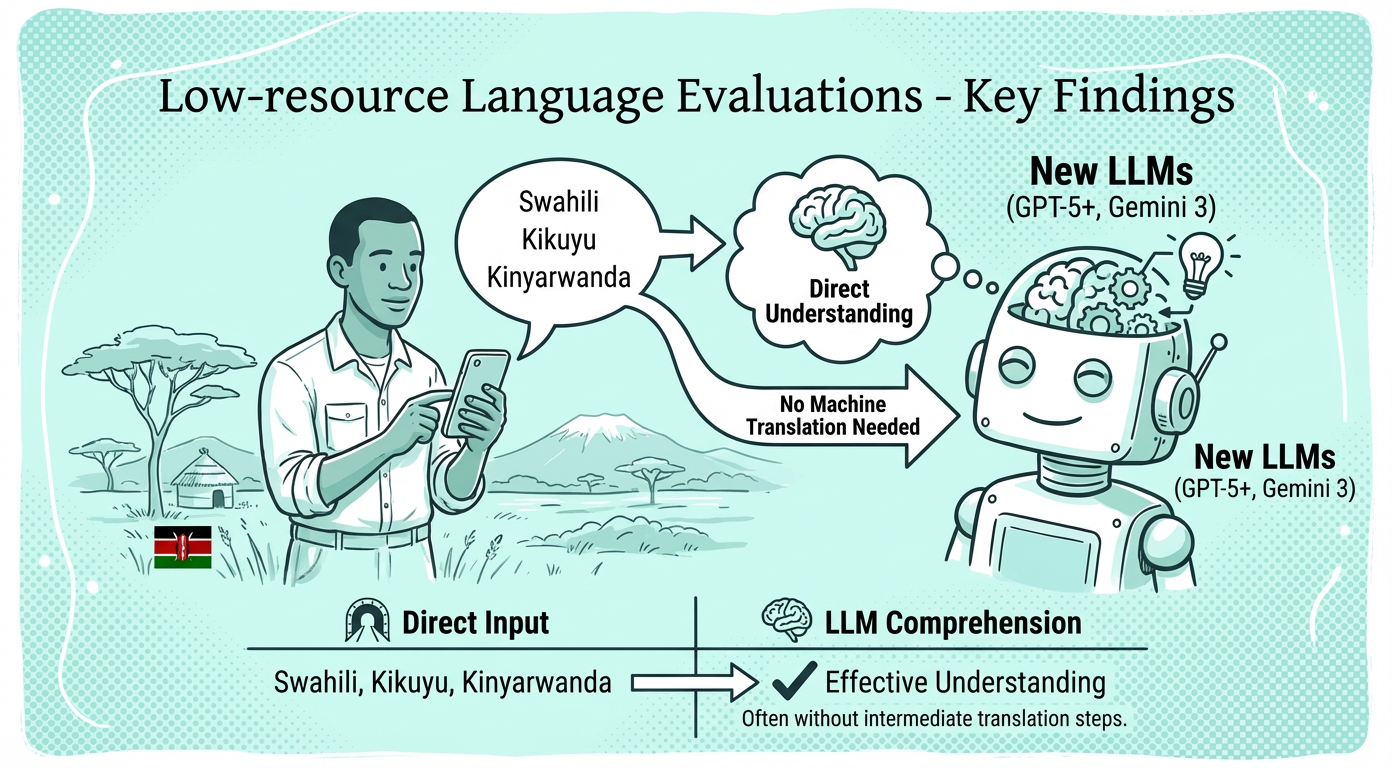
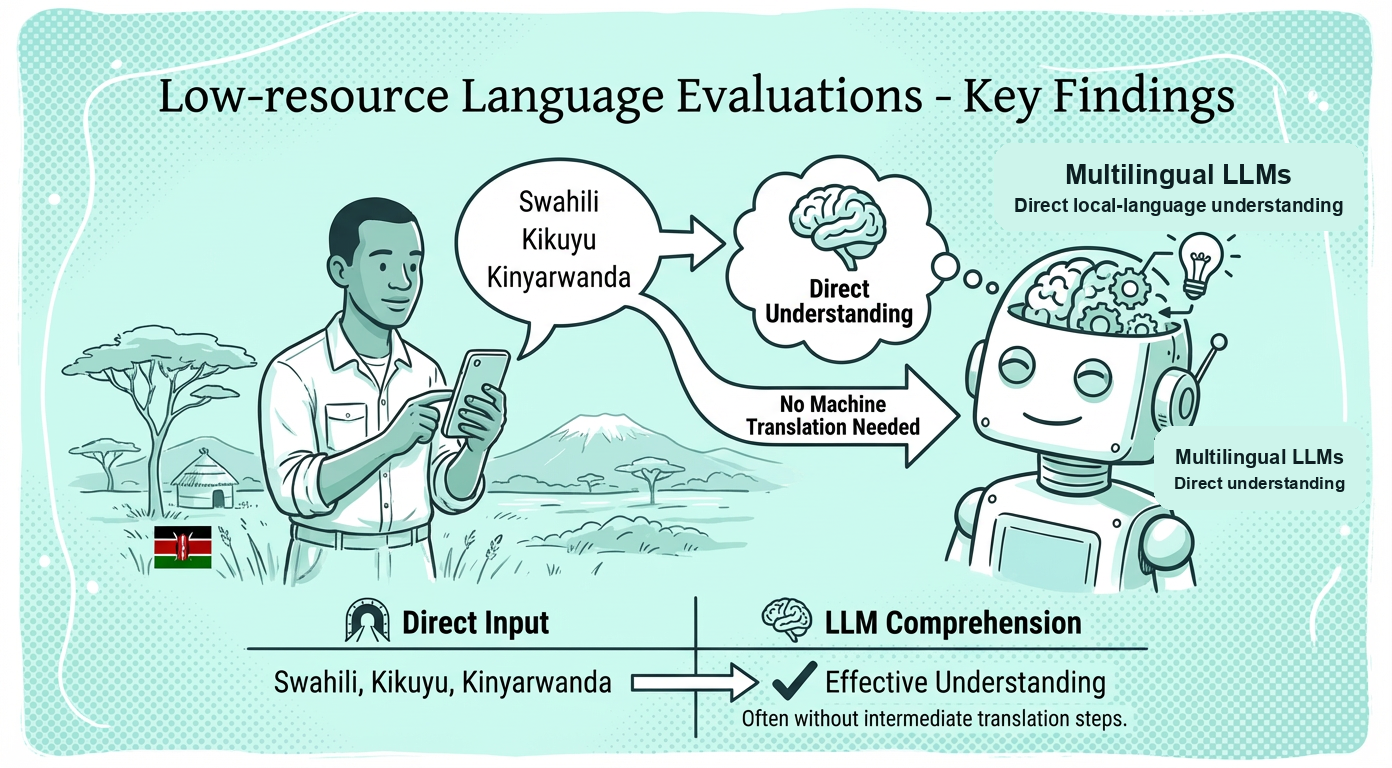
Refresh multilingual evaluation model references

Changed region(s): [[0.7105, 0.1875, 0.9885, 0.3125], [0.8032, 0.5312, 0.9885, 0.6562]]

diff --git a/multilingual-ai-evaluations/index.html b/multilingual-ai-evaluations/index.html
@@ -871,12 +871,12 @@
         <div class="wrap">
           <h2 class="sec-title">Health Related AI Evaluations</h2>
           <p class="sec-sub">
-            In April 2026 we evaluated private models (Gemini 3.1, OpenAI 5.4,
-            Intron) and open-source / sovereign-deployable models (Omnilingual,
-            Gemma 4 26B, Kimi 2.5) on health audio questions in Pakistani and
-            Nigerian languages. Gemini 3.1 Pro paired with Intron or Meta’s
-            Omnilingual ASR was most accurate — a good fit for WhatsApp and
-            async messaging, likely too slow for live voice services.
+            These dated benchmark snapshots compare the specific speech and
+            language models available when each evaluation was run. Across
+            health audio questions in Pakistani and Nigerian languages, the
+            strongest model chain varied by language: higher-accuracy systems
+            often suited WhatsApp and asynchronous messaging, while faster
+            chains were better candidates for live voice services.
           </p>
 
           <h3 class="sec-title">Pakistani and Nigerian Languages</h3>
@@ -1113,7 +1113,7 @@
                   </a>
                   <figcaption>
                     <h4>The ground reality</h4>
-                    <p>Unfortunately, capturing this diversity of language is hard for tech companies attempting to make speech recognition and translation models. This poor performance then implies that incredible tools like GPT4 and Gemini - which are primarily trained on English - don’t work particularly well for speakers of low-resource languages.</p>
+                    <p>Capturing the diversity of local-language speech is difficult for teams building speech-recognition and translation models. Systems trained predominantly on high-resource languages can therefore perform poorly for speakers of digitally underrepresented languages.</p>
                   </figcaption>
                 </figure>
                 <figure class="theory-card">
@@ -1139,9 +1139,9 @@
                     <img src="images/theory-of-change/possibilities-2025.png" alt="Illustration of new language AI possibilities in 2025" width="1392" height="768" loading="lazy" />
                   </a>
                   <figcaption>
-                    <h4>The possibilities in 2025</h4>
+                    <h4>A rapidly improving model ecosystem</h4>
                     <p>Local NLP and AI teams such as Jacaranda Health and MBaza released better performing fine-tuned African speech recognition models. Additionally, Meta released Omnilingual ASR with support for 1600+ languages.</p>
-                    <p>New LLM generations (GPT-5+, Gemini 3) dramatically improved multilingual text comprehension of local-language text.</p>
+                    <p>New generations of multilingual language models have substantially improved comprehension of local-language text.</p>
                   </figcaption>
                 </figure>
                 <figure class="theory-card">
@@ -1160,7 +1160,7 @@
                   <figcaption>
                     <h4>Our methodology</h4>
                     <p><strong>Golden QnA</strong><br />Native speakers record audio questions in three African languages; human experts provide gold-standard English answers for consistent evaluation across systems.</p>
-                    <p><strong>LLM-as-a-judge</strong><br />GPT-5.1 scores system responses against expert answers on 0-1 scale, measuring semantic correctness since African language evaluation remains unreliable.</p>
+                    <p><strong>LLM-as-a-judge</strong><br />A separate language model scores each system response against an expert answer on a 0–1 scale. Publishing the judge, prompt, and settings makes this semantic-correctness measure reproducible as judge models evolve.</p>
                     <p><strong>Latency measurements</strong><br />Measures total time from audio question to audio answer, including ASR, translation, LLM inference, and TTS on A10 GPUs.</p>
                   </figcaption>
                 </figure>
@@ -1188,7 +1188,7 @@
                   </a>
                   <figcaption>
                     <h4>Native text understanding without translation layers</h4>
-                    <p>New large language models such as GPT-5+ and Gemini 3 can natively understand Swahili, Kikuyu, and Kinyarwanda text, often without requiring machine translation. Even in Q3 2025 these models required Machine Translations to understand and translate information to the LLMs. This update in LLMs improves downstream tasks like information retrieval, summarization, and question answering. Native comprehension reduces latency, translation errors, and developer overhead, enabling more accurate, accessible applications for local services, education, and other frontline work.</p>
+                    <p>Recent multilingual language models can understand Swahili, Kikuyu, and Kinyarwanda text directly in many use cases, reducing reliance on an intermediate machine-translation step. This improves downstream tasks such as information retrieval, summarization, and question answering. Native comprehension can reduce latency, translation errors, and developer overhead, enabling more accurate and accessible applications for local services, education, and frontline work.</p>
                   </figcaption>
                 </figure>
                 <figure class="theory-card">
